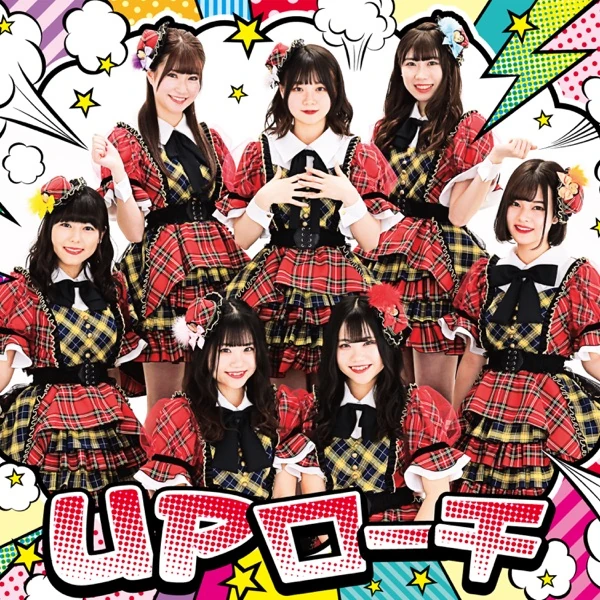
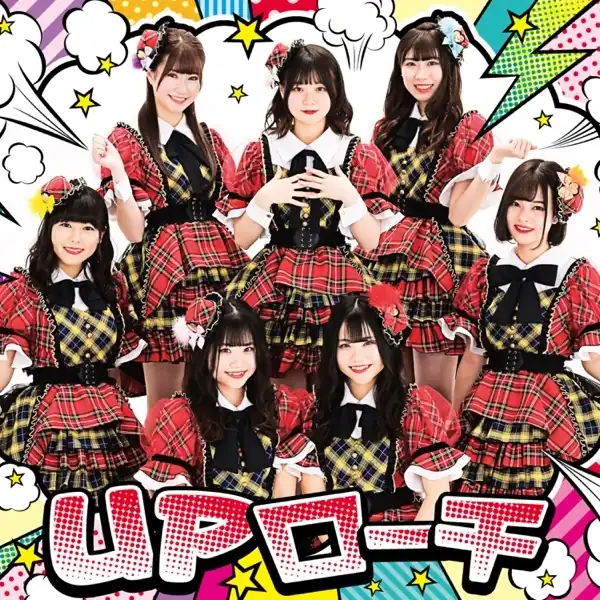
perf: optimize works images batch 1

diff --git a/docs/00_HANDOVER.md b/docs/00_HANDOVER.md
@@ -67,6 +67,7 @@
 - Soft 404対策として `netlify.toml` のSPA用200フォールバックを削除済み（2026-07-29）
 - ブランドグラデーションと白いMの `favicon.svg` / `favicon.ico` を追加し、全6ページへ指定済み（2026-07-29）
 - Selected Works の `_hash_nme_himitsu.webp` を600×600px維持・quality 77で79,568bytesへ再圧縮済み（2026-07-29）
+- 参照中の容量超過本画像10件を600×600px維持・80,000bytes以下へ再圧縮済み（2026-07-29）
 
 ### Feature 2026-05-04（privacy.html 新規追加・未push）
 - `privacy.html` 新規作成（個人情報取り扱い7項目、施行日 2026-05-04）

diff --git a/data/change_log.md b/data/change_log.md
@@ -1,5 +1,6 @@
 # Change Log
 
+- 2026-07-29: 参照中の容量超過本画像10件を600×600px維持・80,000bytes以下へ再圧縮
 - 2026-07-29: Selected Works の `_hash_nme_himitsu.webp` を600×600px維持・quality 77で79,568bytesへ再圧縮
 
 ## 2026-07-28
